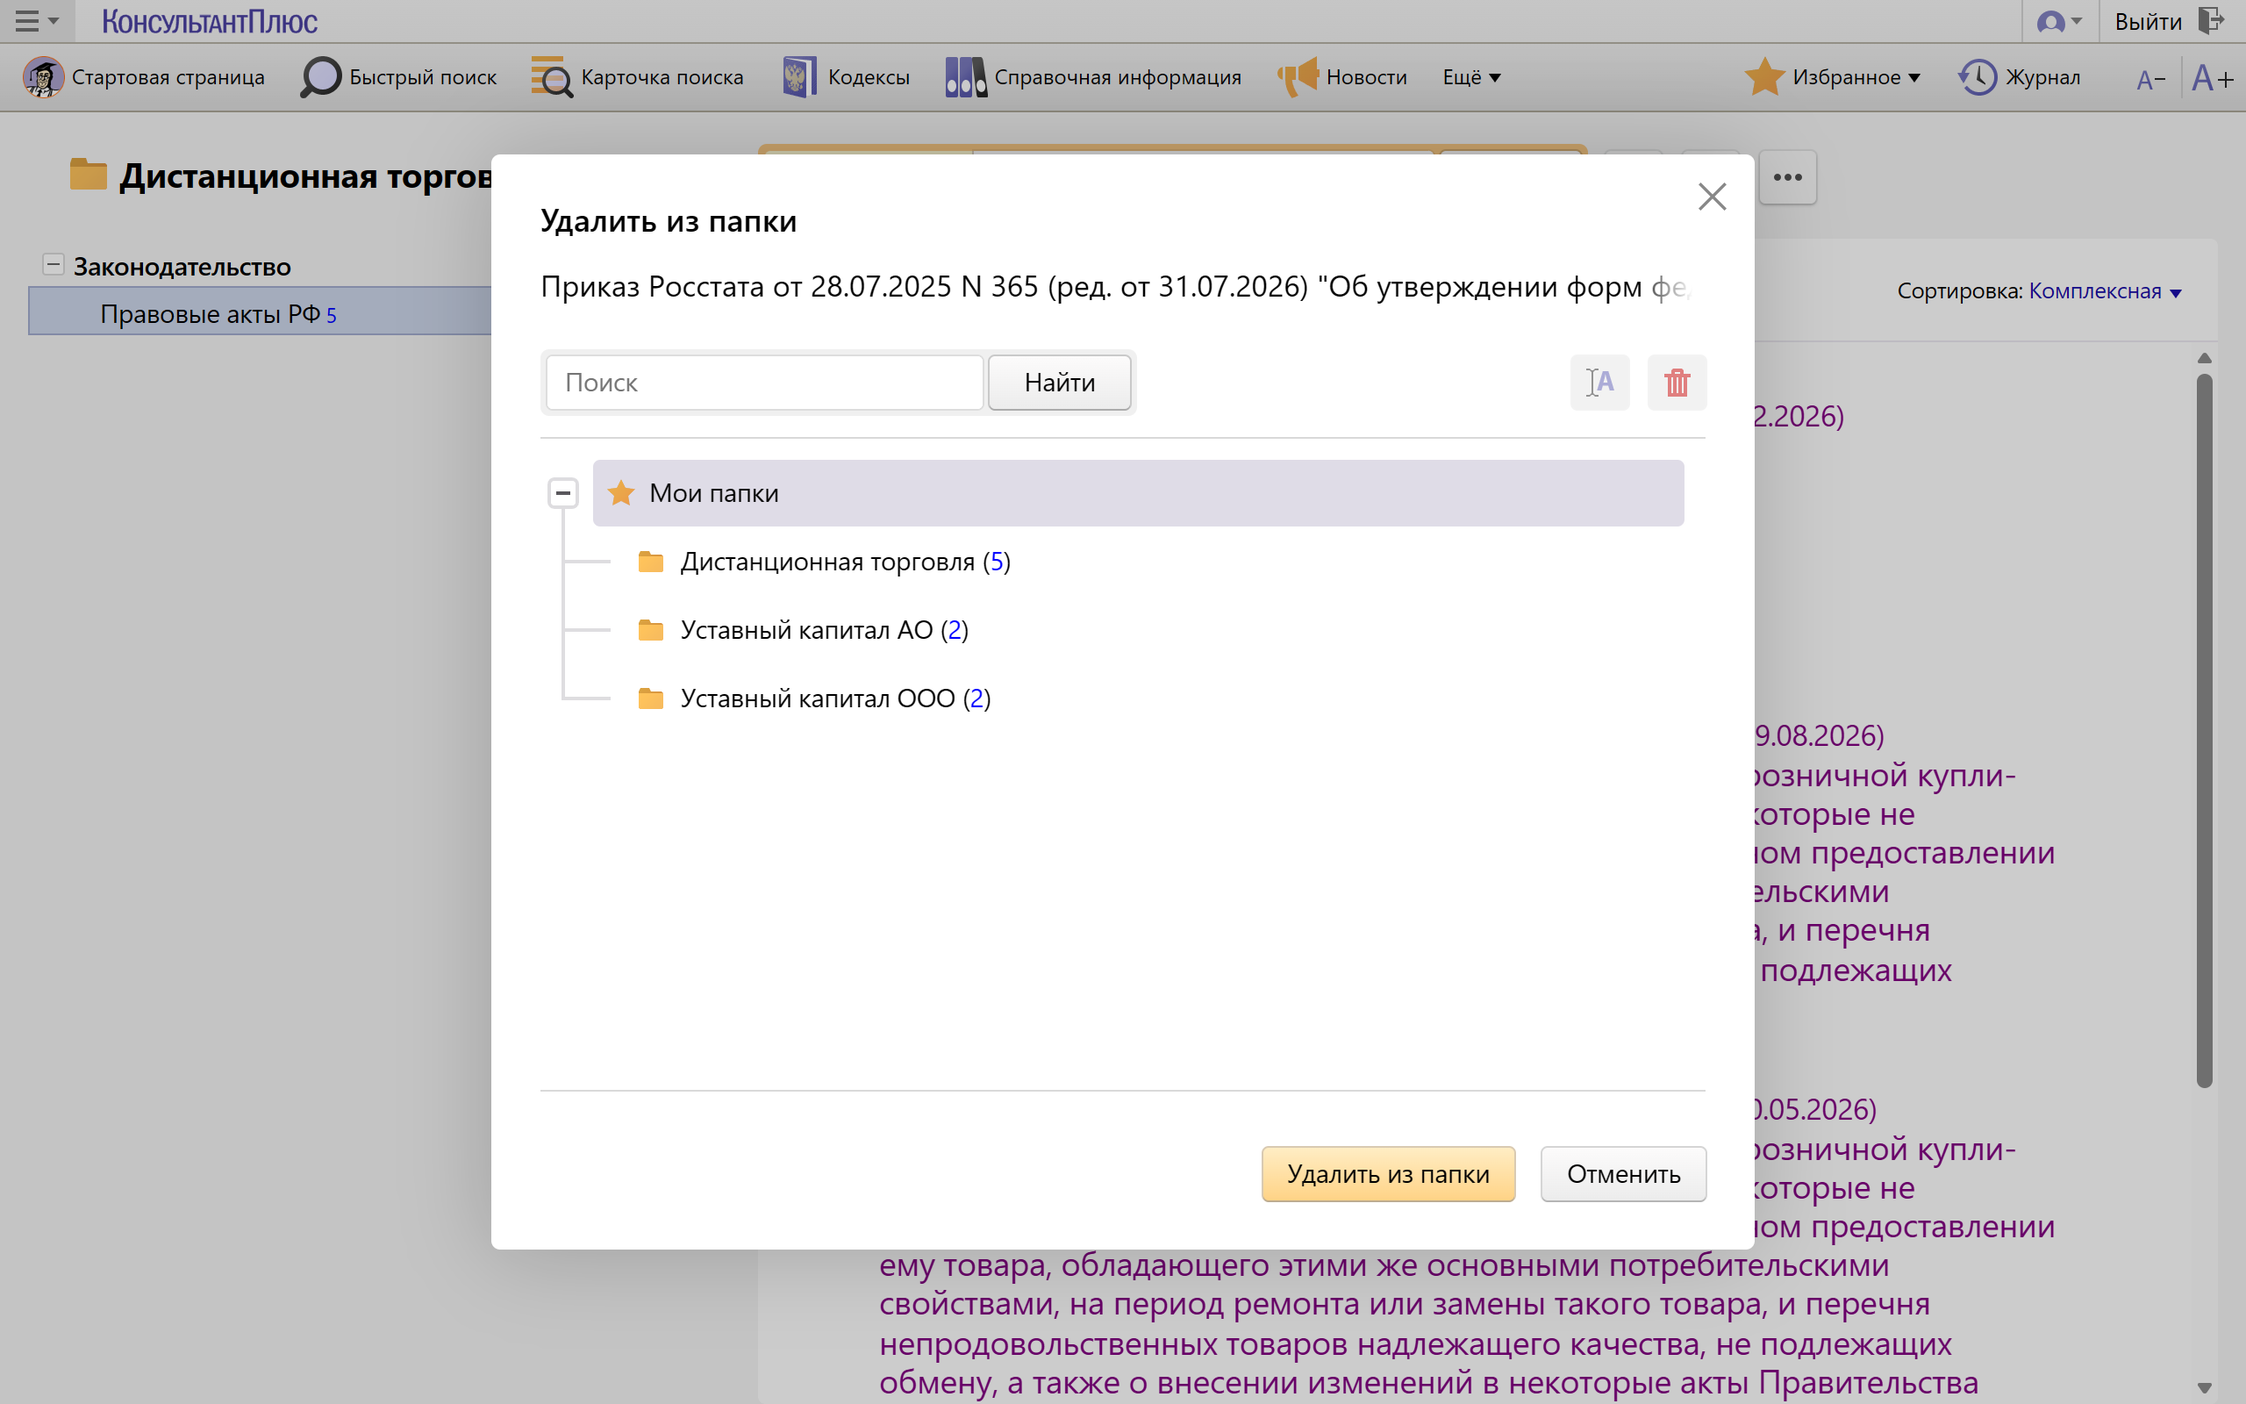
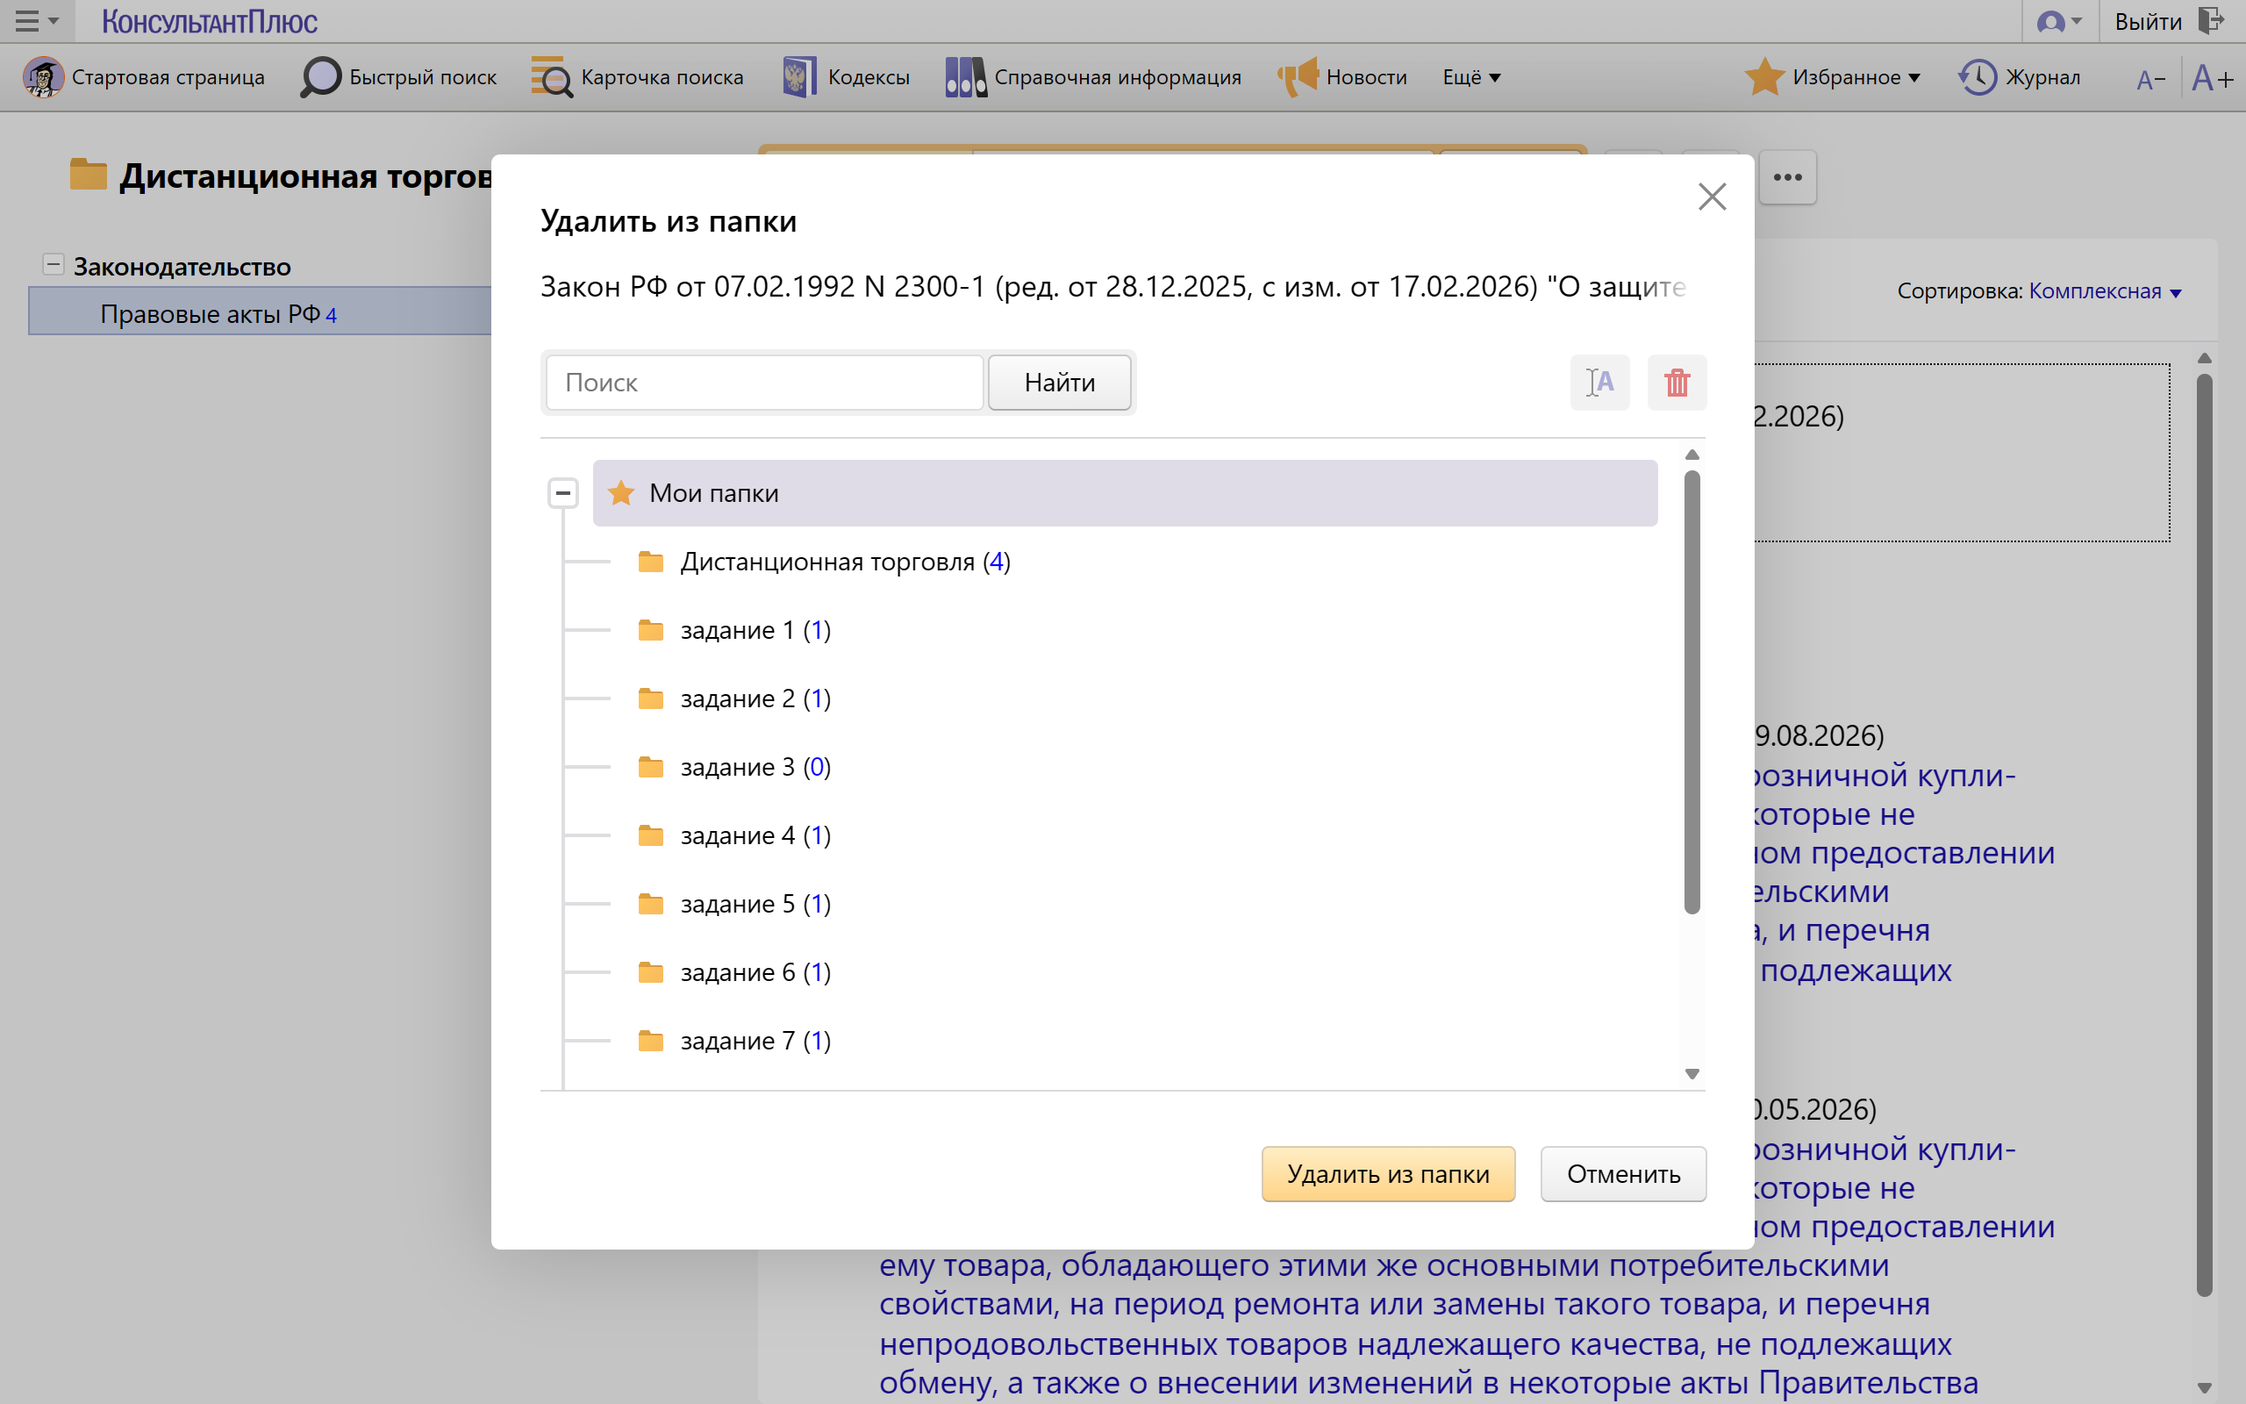
Скрипты сборки отчётов СИС, скриншоты, шаблон и CLAUDE.md
Сборщики build*.py работают из репозитория: пути относительные, шаблон
лежит в папке курса. Навигация по Избранному КонсультантПлюс переведена
с кликов по координатам на кнопки панели с проверкой заголовка.
Скрипты tidy33 и cleanup_dups не включены: они удаляли не те папки.

diff --git a/# Справочные информационные системы/scripts/work32.py b/# Справочные информационные системы/scripts/work32.py
@@ -29,6 +29,22 @@ EXPAND = """(n)=>{
 }"""
 
 
+FAV_TABS = {'Закладки': 0, 'Папки': 1, 'Документы на контроле': 2}
+
+
+def favorites_section(page, name):
+    """Раздел Избранного по кнопке боковой панели: координаты иконок зависят от того, свёрнута ли панель."""
+    page.goto(BASE + '/cgi/online.cgi?req=favorites', wait_until='domcontentloaded')
+    page.wait_for_timeout(7000)
+    page.evaluate("""(i)=>{const b=document.querySelectorAll('.x-page-favorites-sidebar-button');
+        if(b[i]) b[i].click();}""", FAV_TABS[name])
+    page.wait_for_timeout(4000)
+    title = page.evaluate("""()=>{const t=document.querySelector('.x-page-favorites-title-toolbar__title');
+        return t ? t.textContent.trim() : '';}""")
+    if title != name:
+        raise RuntimeError('открылся раздел «%s» вместо «%s»' % (title, name))
+
+
 def shot(page, folder, name):
     page.screenshot(path=os.path.join(folder, name + '.png'))
     print('  OK', name, flush=True)
@@ -82,10 +98,7 @@ def to_folder(page, folder):
 
 
 def folders_page(page):
-    page.goto(BASE + '/cgi/online.cgi?req=favorites', wait_until='domcontentloaded')
-    page.wait_for_timeout(8000)
-    page.mouse.click(32, 203)
-    page.wait_for_timeout(4000)
+    favorites_section(page, 'Папки')
 
 
 def collapse(page):
@@ -154,7 +167,7 @@ def main(page):
 
     page.goto(BASE + '/cgi/online.cgi?req=favorites', wait_until='domcontentloaded')
     page.wait_for_timeout(8000)
-    page.mouse.click(32, 265)          # «Документы на контроле»
+    favorites_section(page, 'Документы на контроле')          # «Документы на контроле»
     page.wait_for_timeout(5000)
     collapse(page)
     shot(page, S32, '32_p8_list')

diff --git a/# Справочные информационные системы/scripts/mkdocfolders33.py b/# Справочные информационные системы/scripts/mkdocfolders33.py
@@ -10,7 +10,7 @@ with sync_playwright() as pw:
         # перезагрузка снимает выделение предыдущей папки, иначе новая создаётся внутри неё
         page.goto(BASE + '/cgi/online.cgi?req=favorites', wait_until='domcontentloaded')
         page.wait_for_timeout(7000)
-        page.mouse.click(32, 203)          # раздел «Папки»
+        favorites_section(page, 'Папки')          # раздел «Папки»
         page.wait_for_timeout(4000)
         page.get_by_text('Создать папку', exact=True).first.click()
         page.wait_for_timeout(2500)
@@ -21,7 +21,7 @@ with sync_playwright() as pw:
 
     page.goto(BASE + '/cgi/online.cgi?req=favorites', wait_until='domcontentloaded')
     page.wait_for_timeout(7000)
-    page.mouse.click(32, 203); page.wait_for_timeout(4000)
+    favorites_section(page, 'Папки'); page.wait_for_timeout(4000)
     page.evaluate("""()=>{const e=[...document.querySelectorAll('*')]
         .filter(x=>x.children.length===0 && /Свернуть/.test(x.textContent.trim()));
         if(e.length) e[e.length-1].click();}""")

diff --git a/# Справочные информационные системы/scripts/kp2.py b/# Справочные информационные системы/scripts/kp2.py
@@ -25,6 +25,22 @@ def open_ctx(pw, headless=True):
     return ctx, page
 
 
+FAV_TABS = {'Закладки': 0, 'Папки': 1, 'Документы на контроле': 2}
+
+
+def favorites_section(page, name):
+    """Раздел Избранного по кнопке боковой панели: координаты иконок зависят от того, свёрнута ли панель."""
+    page.goto(BASE + '/cgi/online.cgi?req=favorites', wait_until='domcontentloaded')
+    page.wait_for_timeout(7000)
+    page.evaluate("""(i)=>{const b=document.querySelectorAll('.x-page-favorites-sidebar-button');
+        if(b[i]) b[i].click();}""", FAV_TABS[name])
+    page.wait_for_timeout(4000)
+    title = page.evaluate("""()=>{const t=document.querySelector('.x-page-favorites-title-toolbar__title');
+        return t ? t.textContent.trim() : '';}""")
+    if title != name:
+        raise RuntimeError('открылся раздел «%s» вместо «%s»' % (title, name))
+
+
 def shot(page, folder, name):
     page.screenshot(path=os.path.join(folder, name + '.png'))
     print('  OK', name, flush=True)

diff --git a/# Справочные информационные системы/scripts/mkdocfolders.py b/# Справочные информационные системы/scripts/mkdocfolders.py
@@ -8,7 +8,7 @@ with sync_playwright() as pw:
     for name in NAMES:
         page.goto(BASE + '/cgi/online.cgi?req=favorites', wait_until='domcontentloaded')
         page.wait_for_timeout(7000)
-        page.mouse.click(32, 203)          # раздел «Папки»
+        favorites_section(page, 'Папки')          # раздел «Папки»
         page.wait_for_timeout(4000)
         page.get_by_text('Создать папку', exact=True).first.click()
         page.wait_for_timeout(2500)
@@ -18,7 +18,7 @@ with sync_playwright() as pw:
         print('создана:', name, flush=True)
     page.goto(BASE + '/cgi/online.cgi?req=favorites', wait_until='domcontentloaded')
     page.wait_for_timeout(7000)
-    page.mouse.click(32, 203); page.wait_for_timeout(4000)
+    favorites_section(page, 'Папки'); page.wait_for_timeout(4000)
     shot(page, S, '32_docfolders')
     print(page.evaluate("document.body.innerText")[-400:].replace('\n', ' | '))
     ctx.close()

diff --git a/# Справочные информационные системы/scripts/work33.py b/# Справочные информационные системы/scripts/work33.py
@@ -3,7 +3,7 @@
 import os
 from work32 import (PROFILE, BASE, S32, S33, EXPAND, shot, quick_search, doc_links,
                     open_doc, open_fav_dialog, to_folder, folders_page, collapse,
-                    open_folder, txt, sync_playwright, time)
+                    open_folder, txt, sync_playwright, time, favorites_section)
 
 CARD = BASE + '/cgi/online.cgi?req=card&div=LAW'
 
@@ -90,7 +90,7 @@ def make_folders33(page):
         # перезагрузка снимает выделение предыдущей папки — иначе новая ляжет внутрь неё
         page.goto(BASE + '/cgi/online.cgi?req=favorites', wait_until='domcontentloaded')
         page.wait_for_timeout(7000)
-        page.mouse.click(32, 203)
+        favorites_section(page, 'Папки')
         page.wait_for_timeout(4000)
         page.get_by_text('Создать папку', exact=True).first.click()
         page.wait_for_timeout(2500)

diff --git a/# Справочные информационные системы/scripts/fin32b.py b/# Справочные информационные системы/scripts/fin32b.py
@@ -10,7 +10,7 @@ FOLDERS = [('Дистанционная торговля', '32_p4_folder'),
 def folders_page(page):
     page.goto(BASE + '/cgi/online.cgi?req=favorites', wait_until='domcontentloaded')
     page.wait_for_timeout(8000)
-    page.mouse.click(32, 203)            # раздел «Папки»
+    favorites_section(page, 'Папки')            # раздел «Папки»
     page.wait_for_timeout(4000)
 
 
@@ -34,7 +34,7 @@ with sync_playwright() as pw:
 
     page.goto(BASE + '/cgi/online.cgi?req=favorites', wait_until='domcontentloaded')
     page.wait_for_timeout(8000)
-    page.mouse.click(32, 265)            # раздел «Документы на контроле»
+    favorites_section(page, 'Документы на контроле')            # раздел «Документы на контроле»
     page.wait_for_timeout(5000)
     collapse(page)
     shot(page, D, '32_p8_list')

diff --git a/# Справочные информационные системы/scripts/work34.py b/# Справочные информационные системы/scripts/work34.py
@@ -19,7 +19,7 @@ def make_folders(page):
         # перезагрузка снимает выделение предыдущей папки — иначе новая ляжет внутрь неё
         page.goto(BASE + '/cgi/online.cgi?req=favorites', wait_until='domcontentloaded')
         page.wait_for_timeout(7000)
-        page.mouse.click(32, 203)
+        favorites_section(page, 'Папки')
         page.wait_for_timeout(4000)
         page.get_by_text('Создать папку', exact=True).first.click()
         page.wait_for_timeout(2500)

diff --git a/# Справочные информационные системы/scripts/fill32.py b/# Справочные информационные системы/scripts/fill32.py
@@ -59,7 +59,7 @@ with sync_playwright() as pw:
         to_folder(page, folder)
     page.goto(BASE + '/cgi/online.cgi?req=favorites', wait_until='domcontentloaded')
     page.wait_for_timeout(7000)
-    page.mouse.click(32, 203); page.wait_for_timeout(4500)
+    favorites_section(page, 'Папки'); page.wait_for_timeout(4500)
     shot(page, S, '32_docfolders_filled')
     print(page.evaluate("document.body.innerText")[-330:].replace('\n', ' | '))
     ctx.close()

diff --git a/# Справочные информационные системы/scripts/openfold.py b/# Справочные информационные системы/scripts/openfold.py
@@ -6,7 +6,7 @@ with sync_playwright() as pw:
     ctx, page = open_ctx(pw)
     page.goto(BASE + '/cgi/online.cgi?req=favorites', wait_until='domcontentloaded')
     page.wait_for_timeout(8000)
-    page.mouse.click(32, 203)
+    favorites_section(page, 'Папки')
     page.wait_for_timeout(5000)
     shot(page, S, 'dbg_folders_section')
     print(page.evaluate("document.body.innerText")[:500].replace('\n', ' | '))

diff --git a/CLAUDE.md b/CLAUDE.md
@@ -37,10 +37,12 @@
 - «КонсультантПлюс: Студент» (student2.consultant.ru): Избранное, закладки, папки, контроль.
   **Входит только сам Никита** — открыть видимое окно и ждать (`work32.run(job)`), логин
   и пароль не вводить. Сессия живёт ~15 минут: всю работу делать одним прогоном после входа.
-- Разделы Избранного переключать кнопками `.x-page-favorites-sidebar-button`
-  (0 — Закладки, 1 — Папки, 2 — Документы на контроле) и сверять заголовок
-  `.x-page-favorites-title-toolbar__title`. Клик по координатам уже приводил к удалению
-  не тех папок. Удаление папки удаляет и вложенные.
+- Разделы Избранного открывать только через `favorites_section(page, 'Папки')` из `kp2.py`
+  или `work32.py`: он жмёт кнопку боковой панели и падает, если заголовок не тот.
+  Клик по координатам иконок уже приводил к удалению не тех папок. Удаление папки
+  удаляет и все вложенные.
+- Многие скрипты съёмки выполняют работу прямо при импорте — не импортировать их,
+  только запускать явно.
 
 ## Репозиторий
 
